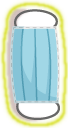
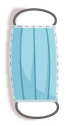
added new glow images

diff --git a/games/olaAuckland/src/scenes/SplashScreen.js b/games/olaAuckland/src/scenes/SplashScreen.js
@@ -13,6 +13,11 @@ export default class SplashScreen extends Phaser.Scene
 
     create()
     {
+        // this.controlBoard = this.add.graphics()
+        // const x = this.scale.width
+        // const y = this.scale.height
+        // this.controlBoard.fillStyle(0xF2F2F2, 0.2)
+        // this.controlBoard.fillRect(0, 0, x, y)
         this.tapSound = this.sound.add('tapSound')
 
         this.blurredBackground = this.add.image(this.scale.width/2, this.scale.height/2, "blurredBackground")
@@ -27,6 +32,20 @@ export default class SplashScreen extends Phaser.Scene
         this.TTSgreen = this.add.image(this.scale.width/2, this.scale.height/2, "TTSgreen")
         Align.scaleToGameW(this.TTSgreen, 1)
         this.TTSgreen.setVisible(false)
+
+        // screen width/height
+        this.width = this.scale.width
+        this.height = this.scale.height
+        // bgImage width/height
+        this.bgWidth = this.blurredBackground.scaleX * this.blurredBackground.width
+        this.bgHeight = this.blurredBackground.scaleX * this.blurredBackground.width
+
+
+        // logo
+        this.logo = this.add.image(0, 0, "logo")
+        Align.scaleToGameW(this.logo, 0.207)
+        this.logo.x = this.bgWidth - this.bgWidth / 7.2
+        this.logo.y = (this.bgHeight / 13.2) + ((this.height - this.bgHeight) / 2)
 
         this.input.on('pointerup', function(pointer) {
             this.tapSound.play()

diff --git a/games/olaAuckland/src/scenes/Preload.js b/games/olaAuckland/src/scenes/Preload.js
@@ -15,8 +15,8 @@ export default class Preload extends Phaser.Scene{
         this.platform = this;
         this.counter = 0;
 
-        this.load.image('background', 'assets/Background.jpg')
-        this.load.image('blurredBackground', 'assets/blurredBackground.jpg')
+        this.load.image('background', 'assets/Background.png')
+        this.load.image('blurredBackground', 'assets/blurredBackground.png')
         this.load.image('diary', 'assets/Diary.png')
         this.load.image('diaryGlow', 'assets/DiaryGlow.png')
         this.load.image('headphones', 'assets/Headphones.png')
@@ -48,6 +48,7 @@ export default class Preload extends Phaser.Scene{
         this.load.image('wonImage', 'assets/congrateMsg.png')
         this.load.image('cab', 'assets/Cab-icon.png')
         this.load.image('locationPin', 'assets/Location-icon.png')
+        // this.load.image('wonMsg', 'assets/completedMsg.png')
         this.load.image('lines', 'assets/Lines.png')
         this.load.image('linesCongrate', 'assets/LinesCongrate.png')
 
